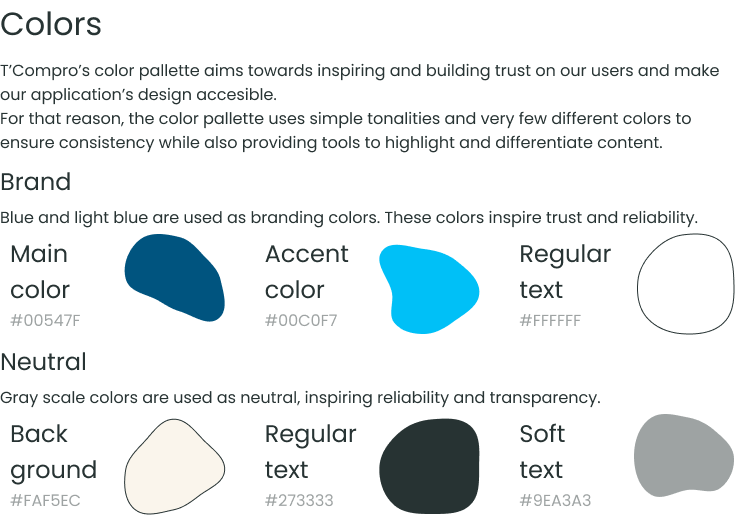
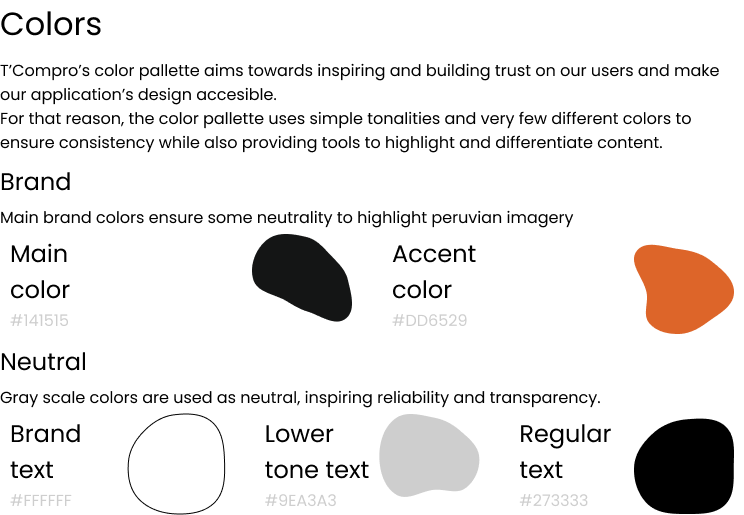
fix: update design system general styles guidelines

diff --git a/sections/capitulo_3/product_design/style_guidelines/general_style_guidelines.md b/sections/capitulo_3/product_design/style_guidelines/general_style_guidelines.md
@@ -20,8 +20,8 @@ En línea con lo anterior, mediante las fuentes elegidas se busca capturar tanto
 
 **COLORS**
 
-A modo de complemento, se escoge un sistema de colores sencillo. La paleta inclinada hacia los tonos azules transmite confianza y representa la innovación, factor decisivo al atacar a un segmento de clientes de difícil conversión.
+A modo de complemento, se escoge un sistema de colores sencillo. La paleta, compuesta principalmente por colores neutros como blanco y negro, inspira calidad y profesionalismo, además de permitir a otros colores como aquellos provenientes de ilustraciones convivir con el sistema y resaltar por encima del resto de contenido.
 
-Se emplean, además, colores neutrales a modo de apoyo. Se evita usar colores muy fuertes o saturados para proveer comodidad visual y manteniendo un nivel de contraste que asegure accesibilidad.
+Se emplea además, el color naranja como color para resaltado, favoreciendo los colores neutros e imponiéndose naturalmente sobre estos.
 
 <img src="../../../../img/solution-design/style-guidelines/colors.png">
